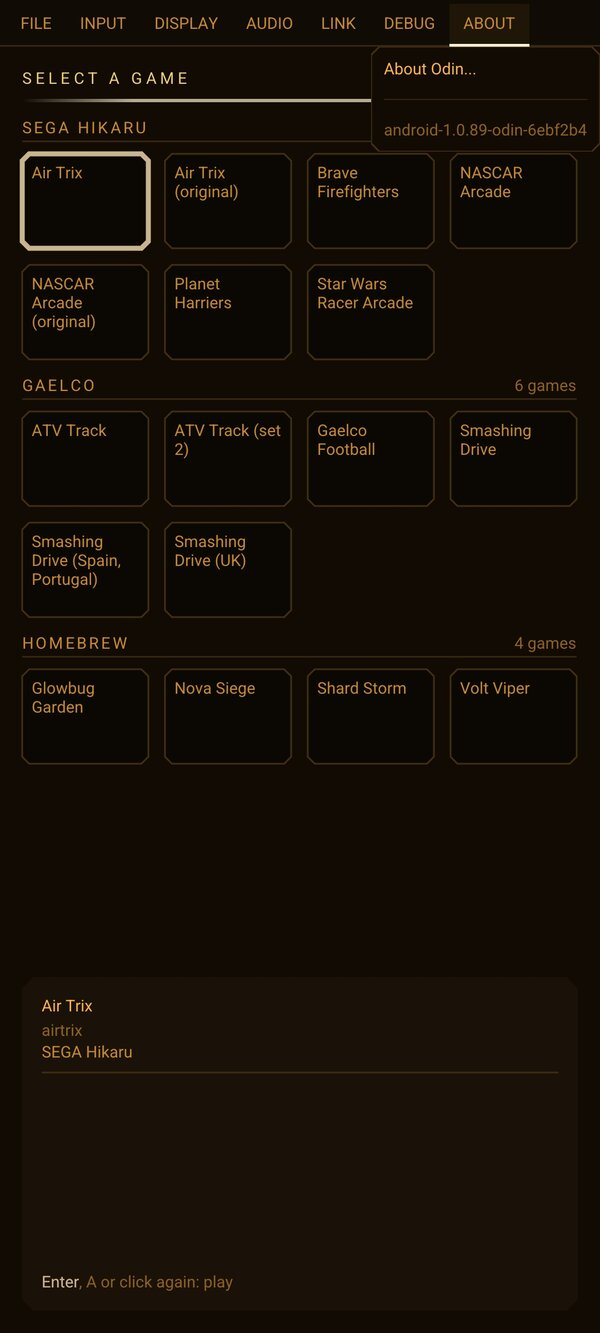
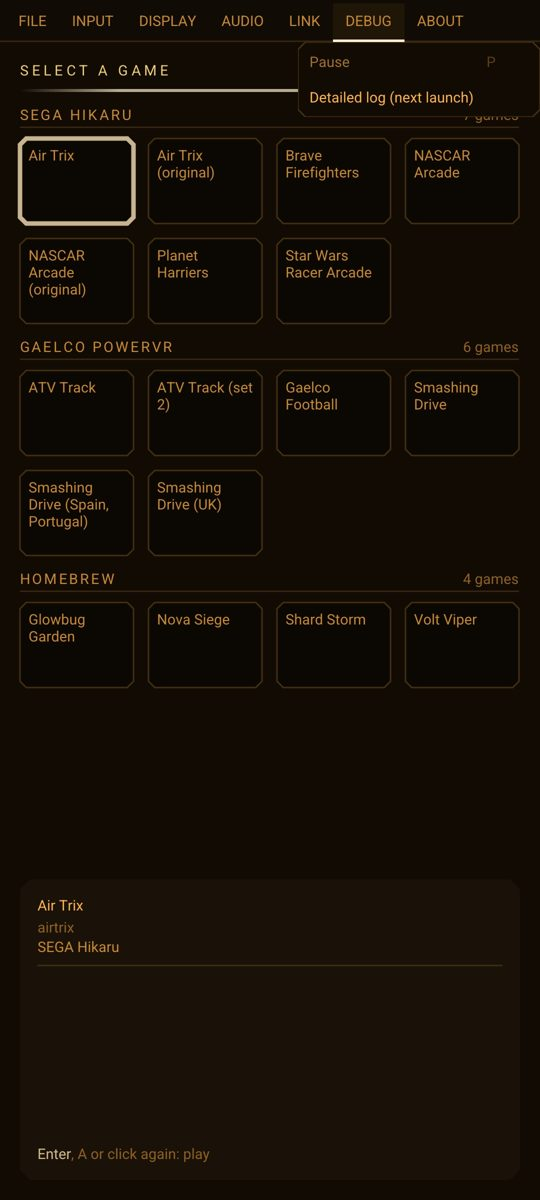
README: the list of the games in portrait (1.0.98), its groups by system as Odin names them; the release's notes: the Gaelco systems, Get homebrew games (#58)
Claude-Session: https://claude.ai/code/session_01Y1Xuj68g9nEy1QUJYZxdtJ

Changed region(s): [[0.563, 0.0308, 0.9778, 0.1233], [0.1778, 0.2775, 0.3259, 0.3083]]

diff --git a/README.md b/README.md
@@ -15,7 +15,7 @@ https://github.com/Laurent-67370/odin-android/releases/download/odin-apk/odin.ap
 <p align="center">
   <img src="docs/air-trix-portrait.jpg" alt="Air Trix en portrait, la manette tactile sous l'image" width="230">
   &nbsp;
-  <img src="docs/games-list-portrait.jpg" alt="La liste des jeux en portrait : SEGA Hikaru, Gaelco, puis la rubrique Homebrew ; la version dans About" width="230">
+  <img src="docs/games-list-portrait.jpg" alt="La liste des jeux en portrait, version 1.0.98 : SEGA Hikaru, Gaelco PowerVR, puis la rubrique Homebrew ; le menu DEBUG ouvert" width="230">
 </p>
 
 <p align="center">
@@ -45,7 +45,7 @@ s'affiche dans MENU → About et dans le titre de la publication).
 | Records et réglages des bornes | gardés, aussi quand Android ferme l'app en arrière-plan |
 | Mises à jour | par-dessus l'ancienne version (APK signé d'une clé fixe) |
 | Ajouter des jeux | MENU → File → Add games… : le sélecteur du téléphone, plusieurs fichiers à la fois ; chaque archive copiée dans `Odin/roms` sous le bon nom (reconnue à son contenu), puis vérifiée : « ready to play », BIOS manquant, ancienne version. Essayé sur le téléphone |
-| Liste des jeux | par système (SEGA Hikaru, Gaelco, Gaelco 3D, C82), puis les jeux maison dans une rubrique HOMEBREW |
+| Liste des jeux | par système (SEGA Hikaru, Gaelco PowerVR, Gaelco 3D, Gaelco C82 : une rubrique n'apparaît que si l'un de ses jeux est dans `Odin/roms`), puis les jeux maison dans une rubrique HOMEBREW |
 | Jeux maison sans nouvel APK | leur zip porte leur description : l'import seul les ajoute à la liste (essayé sur le téléphone avec GLOWBUG GARDEN) |
 | Télécharger les jeux maison | MENU → File → Get homebrew games… : la liste des jeux maison publiés (lue sur la publication GitHub du dépôt), chacun « new », « installed » ou « update » ; ceux cochés sont téléchargés puis ajoutés comme par l'import |
 | Version | `1.0.N` dans MENU → About, dans les informations de l'app et dans le titre de la publication ; ce qui change : [CHANGELOG.md](CHANGELOG.md) |
